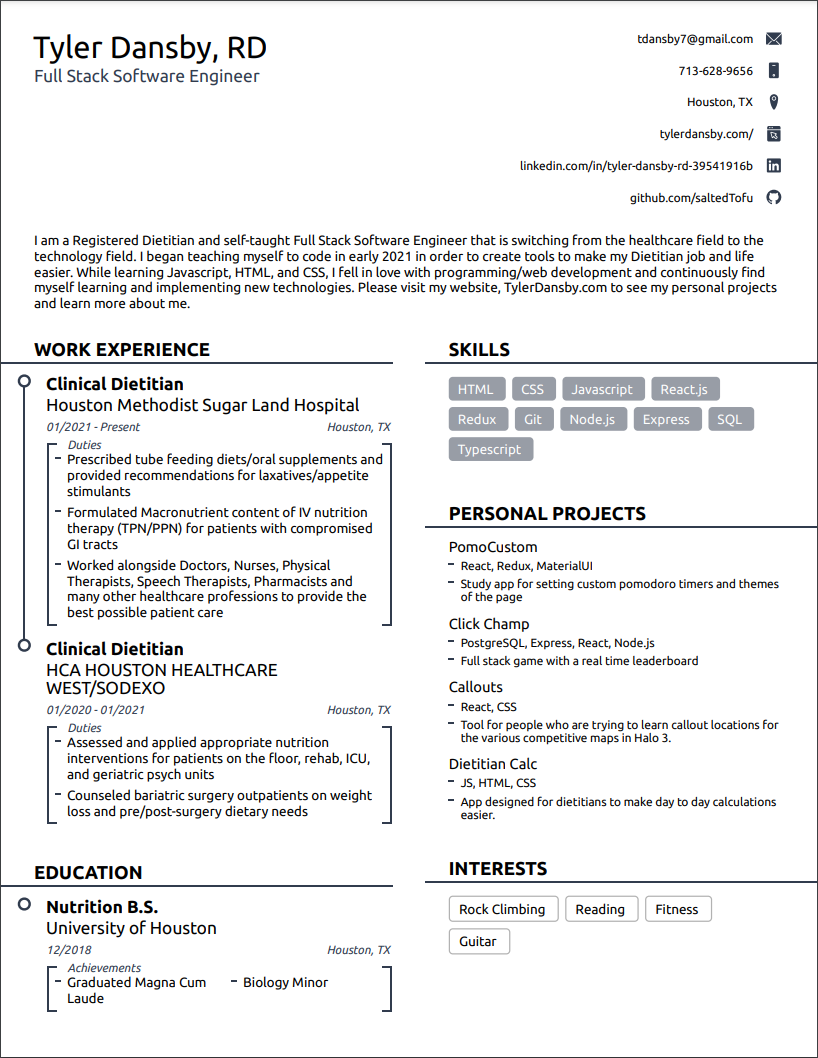
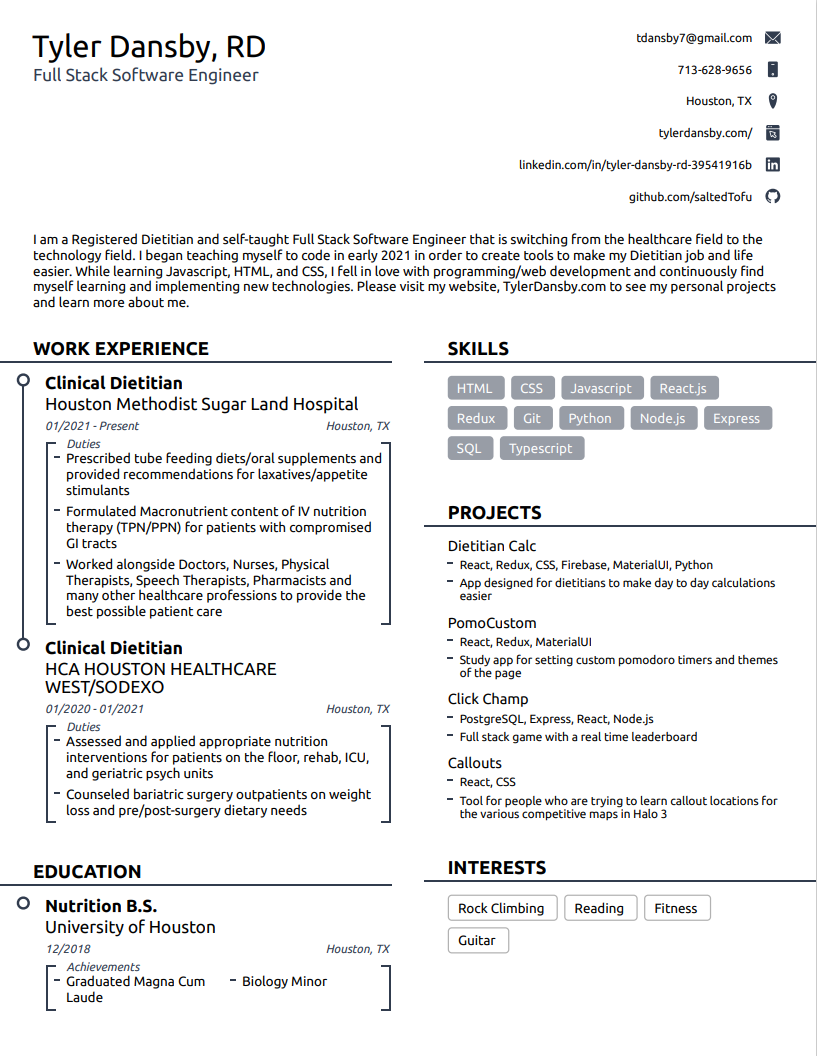
added python

diff --git a/src/components/Main/WhoAmI/WhoAmI.tsx b/src/components/Main/WhoAmI/WhoAmI.tsx
@@ -15,7 +15,7 @@ function WhoAmI(){
     return(
         <div id="aboutMe" className={`mainBodySection fade-in-section ${visible ? 'is-visible' : ''}`}>
                 <h1 className="sectionTitle">Who Am I?</h1>
-                <p id="aboutDescription">My name is Tyler Dansby and I am a Clinical Dietitian (RD) turned full-stack web developer. I began teaching myself to code in 2021 in order to create tools to make my RD job and life easier. While learning Javascript, HTML, and CSS, I fell in love with coding/web development and continuously find myself learning and implementing new technologies. Currently I find myself working a lot with React.js and Typescript, (This page is made with React/Typescript).</p>
+                <p id="aboutDescription">My name is Tyler Dansby and I am a Clinical Dietitian (RD) turned full-stack web developer. I began teaching myself to code in early 2021 in order to create tools to make my RD job and life easier. While learning Javascript, HTML, and CSS, I fell in love with coding/web development and continuously find myself learning and implementing new technologies. Currently I find myself working a lot with React.js and Typescript, (This page is made with React/Typescript).</p>
                 <a target="_blank" href='https://github.com/saltedTofu/PortfolioProject'>Github</a>
             </div>
     )

diff --git a/src/components/Main/Projects/Projects.tsx b/src/components/Main/Projects/Projects.tsx
@@ -26,9 +26,9 @@ function Projects(){
                 name='Dietitian Calc' 
                 liveLink={'https://rdcalc-production.web.app/'}
                 gitLink="https://github.com/saltedTofu/RDCalc2"
-                tech={['React','Redux','MUI', 'Firebase']}
+                tech={['React','Redux','MUI', 'Firebase', 'Python']}
                 img={RDCalc}
-                description='Dietitian Calc is a website designed for use by Clinical Dietitians to perform calculations for tube feedings, nutrition needs (kcal/protein), parenteral nutrition, etc,. The app features an area where the user can add and remove whichever calculators they need and drag them around the area. This app features user authentication and a database hosted on Firebase.'
+                description='Dietitian Calc is a website designed for use by Clinical Dietitians to perform calculations for tube feedings, nutrition needs (kcal/protein), parenteral nutrition, etc,. The app features an area where the user can add and remove whichever calculators they need and drag them around the area. This app features user authentication and a database hosted on Firebase, and a web scraping tool built in Python for getting up to date tube feeding information.'
               />
             </div>
           <div>

diff --git a/src/components/Main/WhatDoIKnow/WhatDoIKnow.tsx b/src/components/Main/WhatDoIKnow/WhatDoIKnow.tsx
@@ -6,6 +6,7 @@ import ReactLogo from '../../../utils/ReactLogo.png';
 import GitLogo from '../../../utils/GitLogo.png';
 import NodeLogo from '../../../utils/NodeLogo.png';
 import SQLLogo from '../../../utils/MySQLLogo.png';
+import PythonLogo from '../../../utils/PythonLogo.png'
 import {useState, useEffect} from 'react';
 import './WhatDoIKnow.css';
 
@@ -55,6 +56,10 @@ function WhatDoIKnow(){
                 <div className="techLogoAndImg">
                     <img alt='Git Logo' src={GitLogo} className="techLogo" id="gitLogo"></img>
                     <span>Git</span>
+                </div>
+                <div className="techLogoAndImg">
+                    <img alt='Python Logo' src={PythonLogo} className="techLogo" id="pythonLogo"></img>
+                    <span>Python</span>
                 </div>
             </div>
         </div>

diff --git a/src/components/Main/WhatDoIKnow/WhatDoIKnow.css b/src/components/Main/WhatDoIKnow/WhatDoIKnow.css
@@ -19,7 +19,7 @@
 #skills ul{
   columns:2;
 }
-#javascriptLogo, #typescriptLogo, #gitLogo{
+#javascriptLogo, #typescriptLogo, #gitLogo, #pythonLogo{
   padding:6%;
 }
 @media only screen and (min-width:1300px) {
